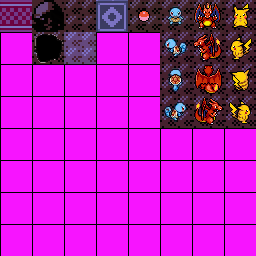
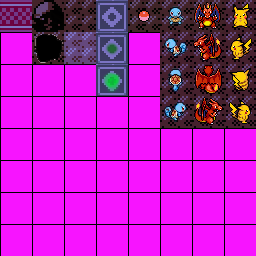
Teste - animações

Changed region(s): [[0.375, 0.125, 0.5, 0.375]]

diff --git a/INF1337-T2/src/mapcell/Enemy20Cell.java b/INF1337-T2/src/mapcell/Enemy20Cell.java
@@ -1,17 +1,51 @@
 package mapcell;
 
+import java.awt.Graphics;
+import java.awt.image.BufferedImage;
+
 import gfx.Assets;
 /**
  * Map cell representing an enemy that does 20 damage
  *
  */
 public class Enemy20Cell extends MapCell {
+	private static BufferedImage[] images = {Assets.enemy20Down, Assets.enemy20Left, Assets.enemy20Up, Assets.enemy20Right};
+	
+	private long start_time = System.nanoTime();
+	private int curRender = 0;
+	
 	/**
 	 * Enemy20Cell constructor
-	 * <p><b>Enemy20Cell:</b> map cell representing an enemy that does 20 damage</p>
+	 * <p><b>Enemy50Cell:</b> map cell representing an enemy that does 50 damage</p>
 	 * @param id: Cell identifier.
 	 */
 	public Enemy20Cell(char id) {
-		super(Assets.enemy20Down, id, true);
+		super(images, id, true);
+	}
+	
+	/**
+	 * Draws the image
+	 * @param g Rendering component
+	 * @param x coordinate to be passed onto drawImage
+	 * @param y coordinate to be passed onto drawImage
+	 * @param width be passed onto drawImage
+	 * @param height to be passed onto drawImage
+	 */
+	@Override
+	public void render(Graphics g, int x, int y, int width, int height) {
+		long end_time = System.nanoTime();
+		double difference = (end_time - start_time)/1e6;
+		if(difference > 1000)
+		{
+			curRender++;
+			if(curRender > 3)
+			{
+				curRender = 0;
+			}
+			
+			start_time = System.nanoTime();
+		}
+		
+		g.drawImage(textures[curRender], x, y, width, height, null);
 	}
 }

diff --git a/INF1337-T2/src/mapcell/TeletransportCell.java b/INF1337-T2/src/mapcell/TeletransportCell.java
@@ -1,17 +1,52 @@
 package mapcell;
 
+import java.awt.Graphics;
+import java.awt.image.BufferedImage;
+
 import gfx.Assets;
 /**
  * Map cell representing a teletransport unit
  *
  */
 public class TeletransportCell extends MapCell {
+	
+	private static BufferedImage[] images = {Assets.teletransport, Assets.teletransport2, Assets.teletransport3};
+	
+	private long start_time = System.nanoTime();
+	private int curRender = 0;
+	
 	/**
 	 * TeletransportCell constructor
 	 * <p><b>TeletransportCell:</b> map cell representing a teletransport unit</p>
 	 * @param id: Cell identifier.
 	 */
 	public TeletransportCell(char id) {
-		super(Assets.teletransport, id, true);
+		super(images, id, true);
+	}
+	
+	/**
+	 * Draws the image
+	 * @param g Rendering component
+	 * @param x coordinate to be passed onto drawImage
+	 * @param y coordinate to be passed onto drawImage
+	 * @param width be passed onto drawImage
+	 * @param height to be passed onto drawImage
+	 */
+	@Override
+	public void render(Graphics g, int x, int y, int width, int height) {
+		long end_time = System.nanoTime();
+		double difference = (end_time - start_time)/1e6;
+		if(difference > 200)
+		{
+			curRender++;
+			if(curRender > 2)
+			{
+				curRender = 0;
+			}
+			
+			start_time = System.nanoTime();
+		}
+		
+		g.drawImage(textures[curRender], x, y, width, height, null);
 	}
 }

diff --git a/INF1337-T2/src/mapcell/Enemy50Cell.java b/INF1337-T2/src/mapcell/Enemy50Cell.java
@@ -1,17 +1,51 @@
 package mapcell;
 
+import java.awt.Graphics;
+import java.awt.image.BufferedImage;
+
 import gfx.Assets;
 /**
  * Map cell representing an enemy that does 50 damage
  *
  */
 public class Enemy50Cell extends MapCell {
+	private static BufferedImage[] images = {Assets.enemy50Down, Assets.enemy50Left, Assets.enemy50Up, Assets.enemy50Right};
+	
+	private long start_time = -1;
+	private int curRender = 0;
+	
 	/**
 	 * Enemy50Cell constructor
 	 * <p><b>Enemy50Cell:</b> map cell representing an enemy that does 50 damage</p>
 	 * @param id: Cell identifier.
 	 */
 	public Enemy50Cell(char id) {
-		super(Assets.enemy50Down, id, true);
+		super(images, id, true);
+	}
+	
+	/**
+	 * Draws the image
+	 * @param g Rendering component
+	 * @param x coordinate to be passed onto drawImage
+	 * @param y coordinate to be passed onto drawImage
+	 * @param width be passed onto drawImage
+	 * @param height to be passed onto drawImage
+	 */
+	@Override
+	public void render(Graphics g, int x, int y, int width, int height) {
+		long end_time = System.nanoTime();
+		double difference = (end_time - start_time)/1e6;
+		if(difference > 1000)
+		{
+			curRender++;
+			if(curRender > 3)
+			{
+				curRender = 0;
+			}
+			
+			start_time = System.nanoTime();
+		}
+		
+		g.drawImage(textures[curRender], x, y, width, height, null);
 	}
 }

diff --git a/INF1337-T2/src/map/MapPanel.java b/INF1337-T2/src/map/MapPanel.java
@@ -2,9 +2,12 @@ package map;
 
 import java.awt.Color;
 import java.awt.Graphics;
+import java.awt.event.ActionEvent;
+import java.awt.event.ActionListener;
 
 import javax.swing.BorderFactory;
 import javax.swing.JPanel;
+import javax.swing.Timer;
 
 import gfx.Assets;
 import mapcell.*;
@@ -29,6 +32,17 @@ public class MapPanel extends JPanel {
 	 */
 	private Graphics g;
 
+	private int _timeSlice = 50;  // update every 50 milliseconds
+	
+	private Timer _timer = new Timer(_timeSlice, new ActionListener() {
+	    /**
+	     * The timer "ticks" by calling this method every _timeslice milliseconds
+	     */
+	    public void actionPerformed (ActionEvent e) {
+	        MapPanel.this.repaint();
+	    }
+	});
+	
 	/**
 	 * MapPanel constructor
 	 */
@@ -83,6 +97,8 @@ public class MapPanel extends JPanel {
 
 		int numcols = loadedMap.getNColumns(), numrows = loadedMap.getNRows();
 
+		_timer.stop();
+		
 		// Clear the panel
 		g.setColor(Color.BLACK);
 		g.fillRect(0, 0, width, height);
@@ -108,6 +124,8 @@ public class MapPanel extends JPanel {
 				cell.render(g, x, y, (int) rectWidth, (int) rectHeight);
 			}
 		}
+		
+		_timer.start();
 		
 		return true;
 	}

diff --git a/INF1337-T1/src/mapcell/MapCell.java b/INF1337-T1/src/mapcell/MapCell.java
@@ -70,9 +70,9 @@ public abstract class MapCell {
 	}
 	
 	/**
-	 * Image referencing MapCell
+	 * Images referencing MapCell
 	 */
-	protected BufferedImage texture;
+	protected BufferedImage[] textures;
 	
 	/**
 	 * Cell identifier.
@@ -85,20 +85,31 @@ public abstract class MapCell {
 	 * @param id
 	 */
 	public MapCell(BufferedImage texture, char id) {
-		this.texture = texture;
+		this.textures = new BufferedImage[1];
+		this.textures[0] = texture;
+		this.id = id;
+	}
+	
+	/**
+	 * MapCell constructor
+	 * @param textures
+	 * @param id
+	 */
+	public MapCell(BufferedImage[] textures, char id) {
+		this.textures = textures;
 		this.id = id;
 	}
 
 	/**
 	 * Draws the image
-	 * @param g Renderization component
+	 * @param g Rendering component
 	 * @param x coordinate to be passed onto drawImage
 	 * @param y coordinate to be passed onto drawImage
 	 * @param width be passed onto drawImage
 	 * @param height to be passed onto drawImage
 	 */
 	public void render(Graphics g, int x, int y, int width, int height) {
-		g.drawImage(texture, x, y, width, height, null);
+		g.drawImage(textures[0], x, y, width, height, null);
 	}
 
 	/**

diff --git a/INF1337-T2/src/gfx/Assets.java b/INF1337-T2/src/gfx/Assets.java
@@ -17,7 +17,7 @@ public class Assets {
 	 */
 	public static final int TILE_HEIGHT = 32;
 
-	public static BufferedImage start, wall, hole, floor, floorvisited, teletransport, gold;
+	public static BufferedImage start, wall, hole, floor, floorvisited, teletransport, teletransport2, teletransport3, gold;
 	public static BufferedImage enemy20Down, enemy20Left, enemy20Up, enemy20Right;
 	public static BufferedImage enemy50Down, enemy50Left, enemy50Up, enemy50Right;
 	public static BufferedImage agentDown, agentLeft, agentUp, agentRight;
@@ -33,6 +33,8 @@ public class Assets {
 		floor = sheet.crop(TILE_WIDTH * 2, 0, TILE_WIDTH, TILE_HEIGHT);
 		floorvisited = sheet.crop(TILE_WIDTH * 2, TILE_HEIGHT, TILE_WIDTH, TILE_HEIGHT);
 		teletransport = sheet.crop(TILE_WIDTH * 3, 0, TILE_WIDTH, TILE_HEIGHT);
+		teletransport2 = sheet.crop(TILE_WIDTH * 3, TILE_HEIGHT, TILE_WIDTH, TILE_HEIGHT);
+		teletransport3 = sheet.crop(TILE_WIDTH * 3, TILE_HEIGHT * 2, TILE_WIDTH, TILE_HEIGHT);
 		gold = sheet.crop(TILE_WIDTH * 4, 0, TILE_WIDTH, TILE_HEIGHT);
 		
 		enemy20Down = sheet.crop(TILE_WIDTH * 5, 0, TILE_WIDTH, TILE_HEIGHT);

diff --git a/INF1337-T2/src/mapcell/MapCell.java b/INF1337-T2/src/mapcell/MapCell.java
@@ -55,9 +55,9 @@ public abstract class MapCell {
 	}
 		
 	/**
-	 * Image referencing MapCell
+	 * Images referencing MapCell
 	 */
-	protected BufferedImage texture;
+	protected BufferedImage[] textures;
 	
 	/**
 	 * Cell identifier.
@@ -76,7 +76,20 @@ public abstract class MapCell {
 	 * @param isWalkable
 	 */
 	public MapCell(BufferedImage texture, char id, boolean isWalkable) {
-		this.texture = texture;
+		this.textures = new BufferedImage[1];
+		this.textures[0] = texture;
+		this.id = id;
+		this.walkable = isWalkable;
+	}
+	
+	/**
+	 * MapCell constructor
+	 * @param texture
+	 * @param id
+	 * @param isWalkable
+	 */
+	public MapCell(BufferedImage[] textures, char id, boolean isWalkable) {
+		this.textures = textures;
 		this.id = id;
 		this.walkable = isWalkable;
 	}
@@ -90,7 +103,7 @@ public abstract class MapCell {
 	 * @param height to be passed onto drawImage
 	 */
 	public void render(Graphics g, int x, int y, int width, int height) {
-		g.drawImage(texture, x, y, width, height, null);
+		g.drawImage(textures[0], x, y, width, height, null);
 	}
 
 	/**
